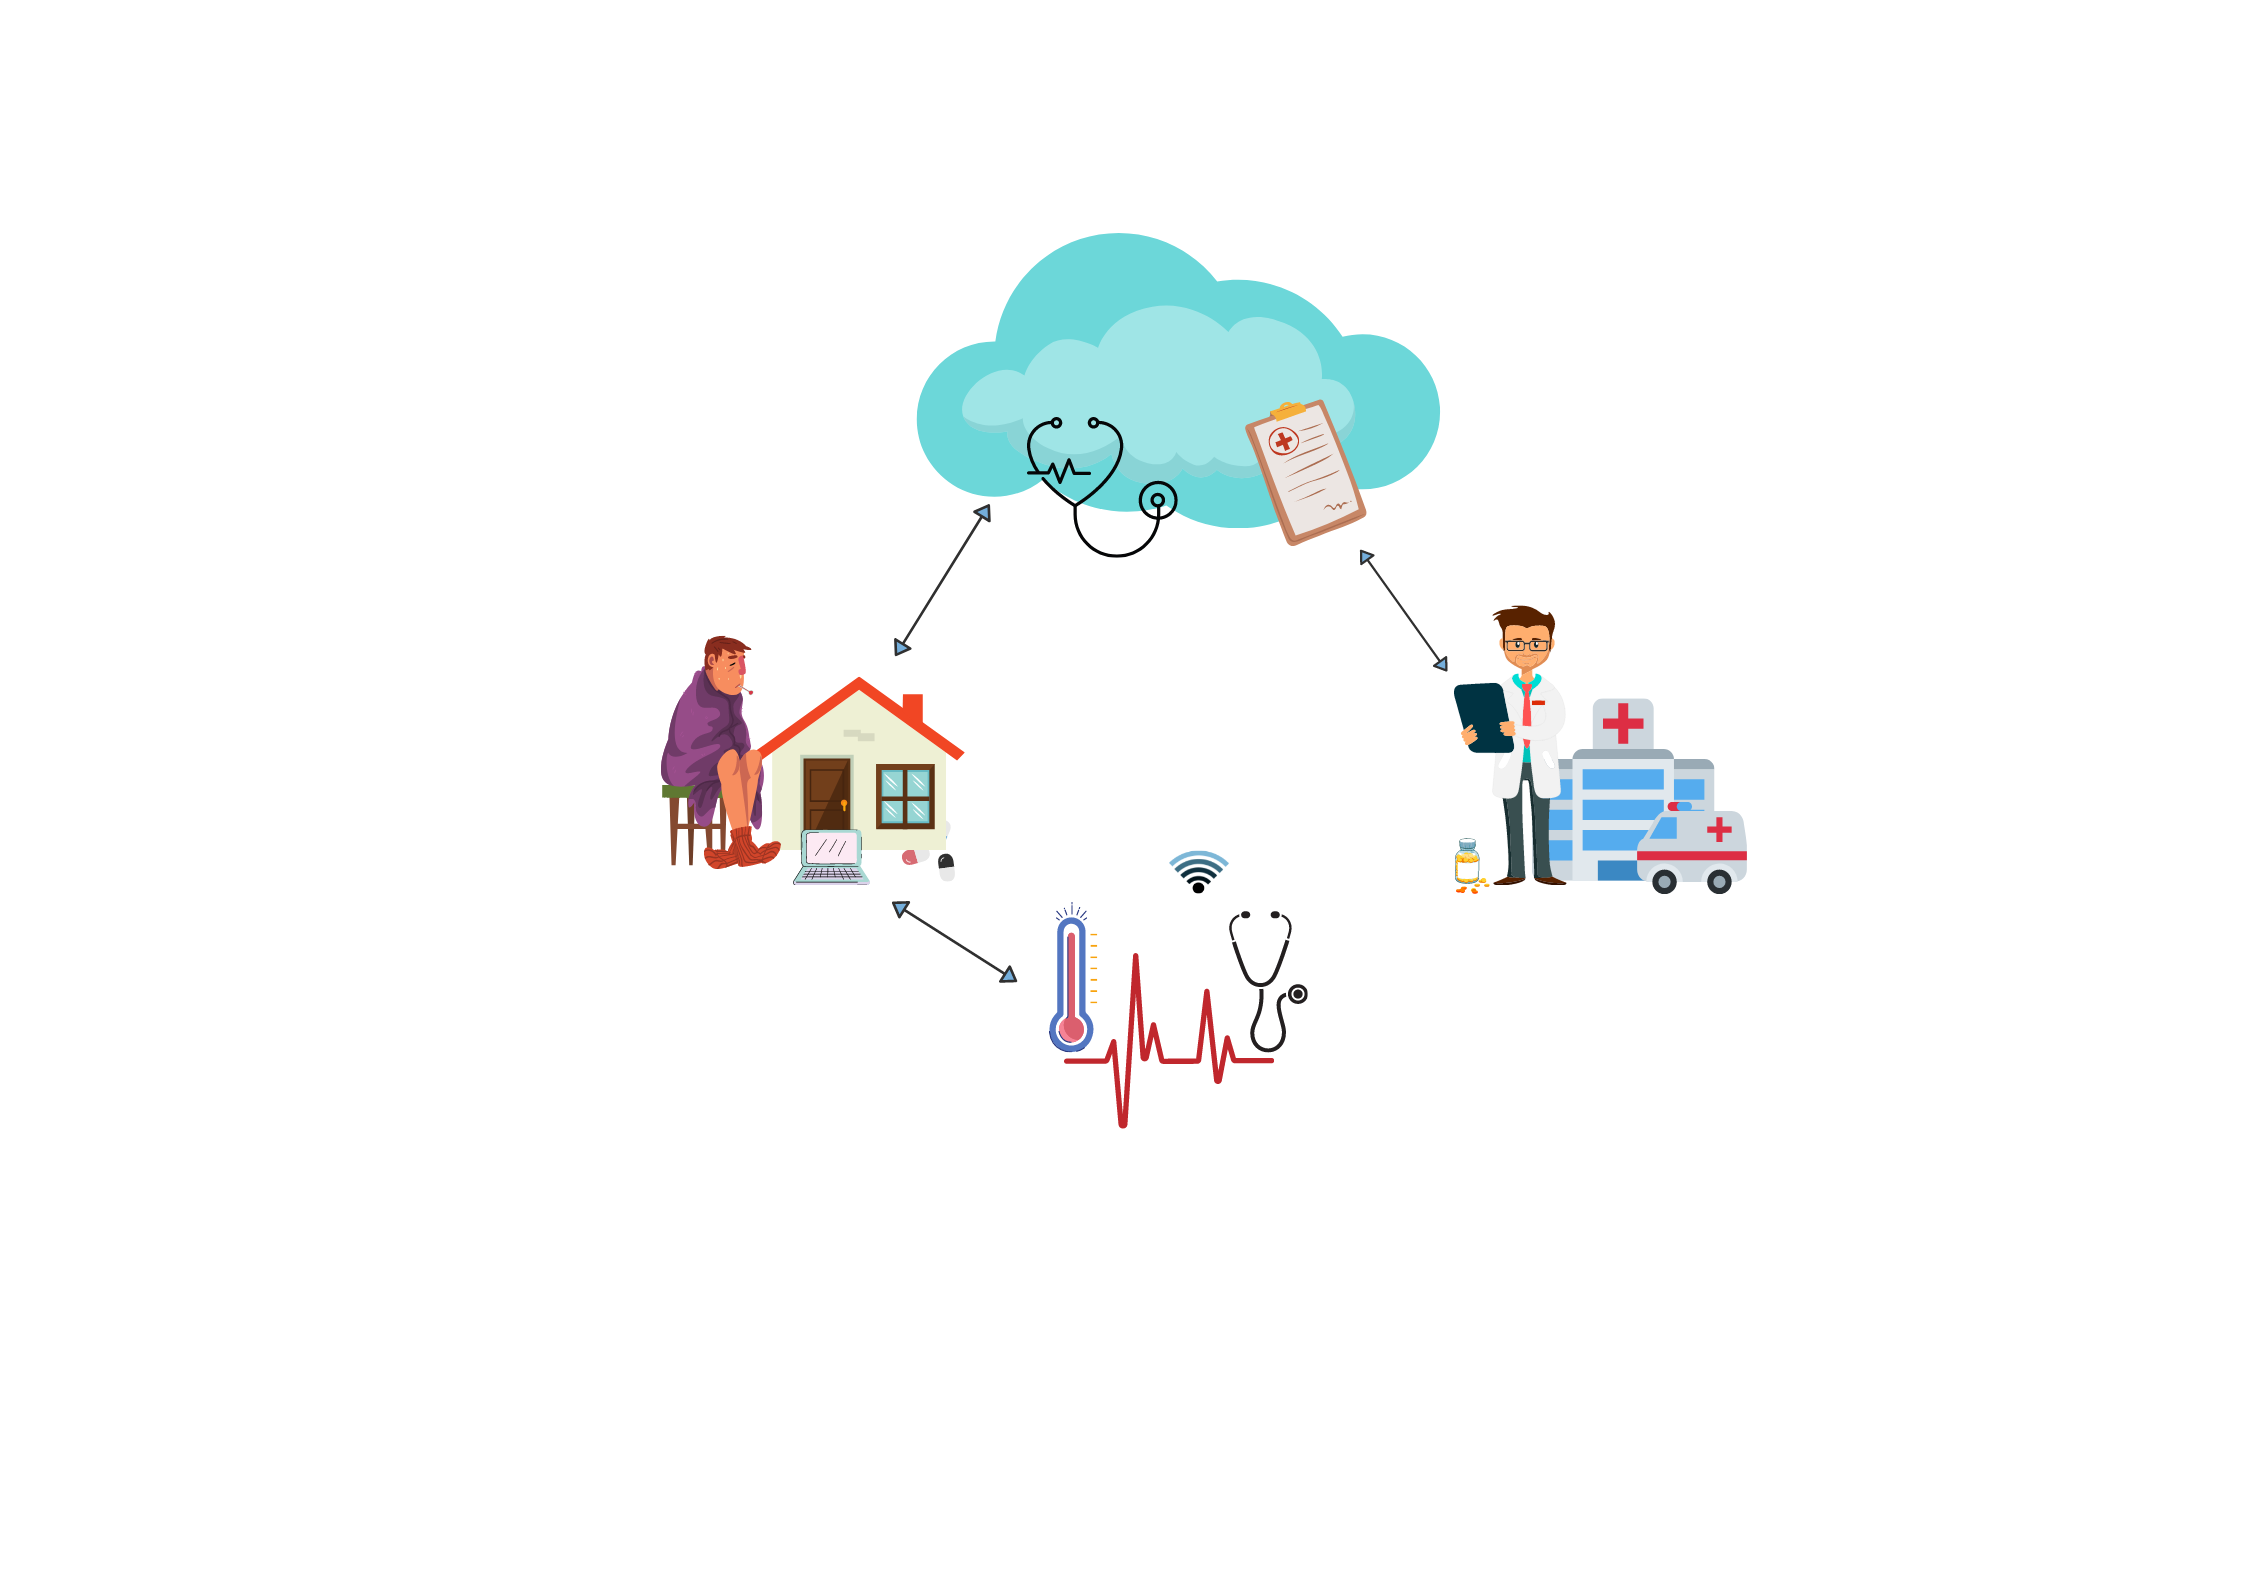
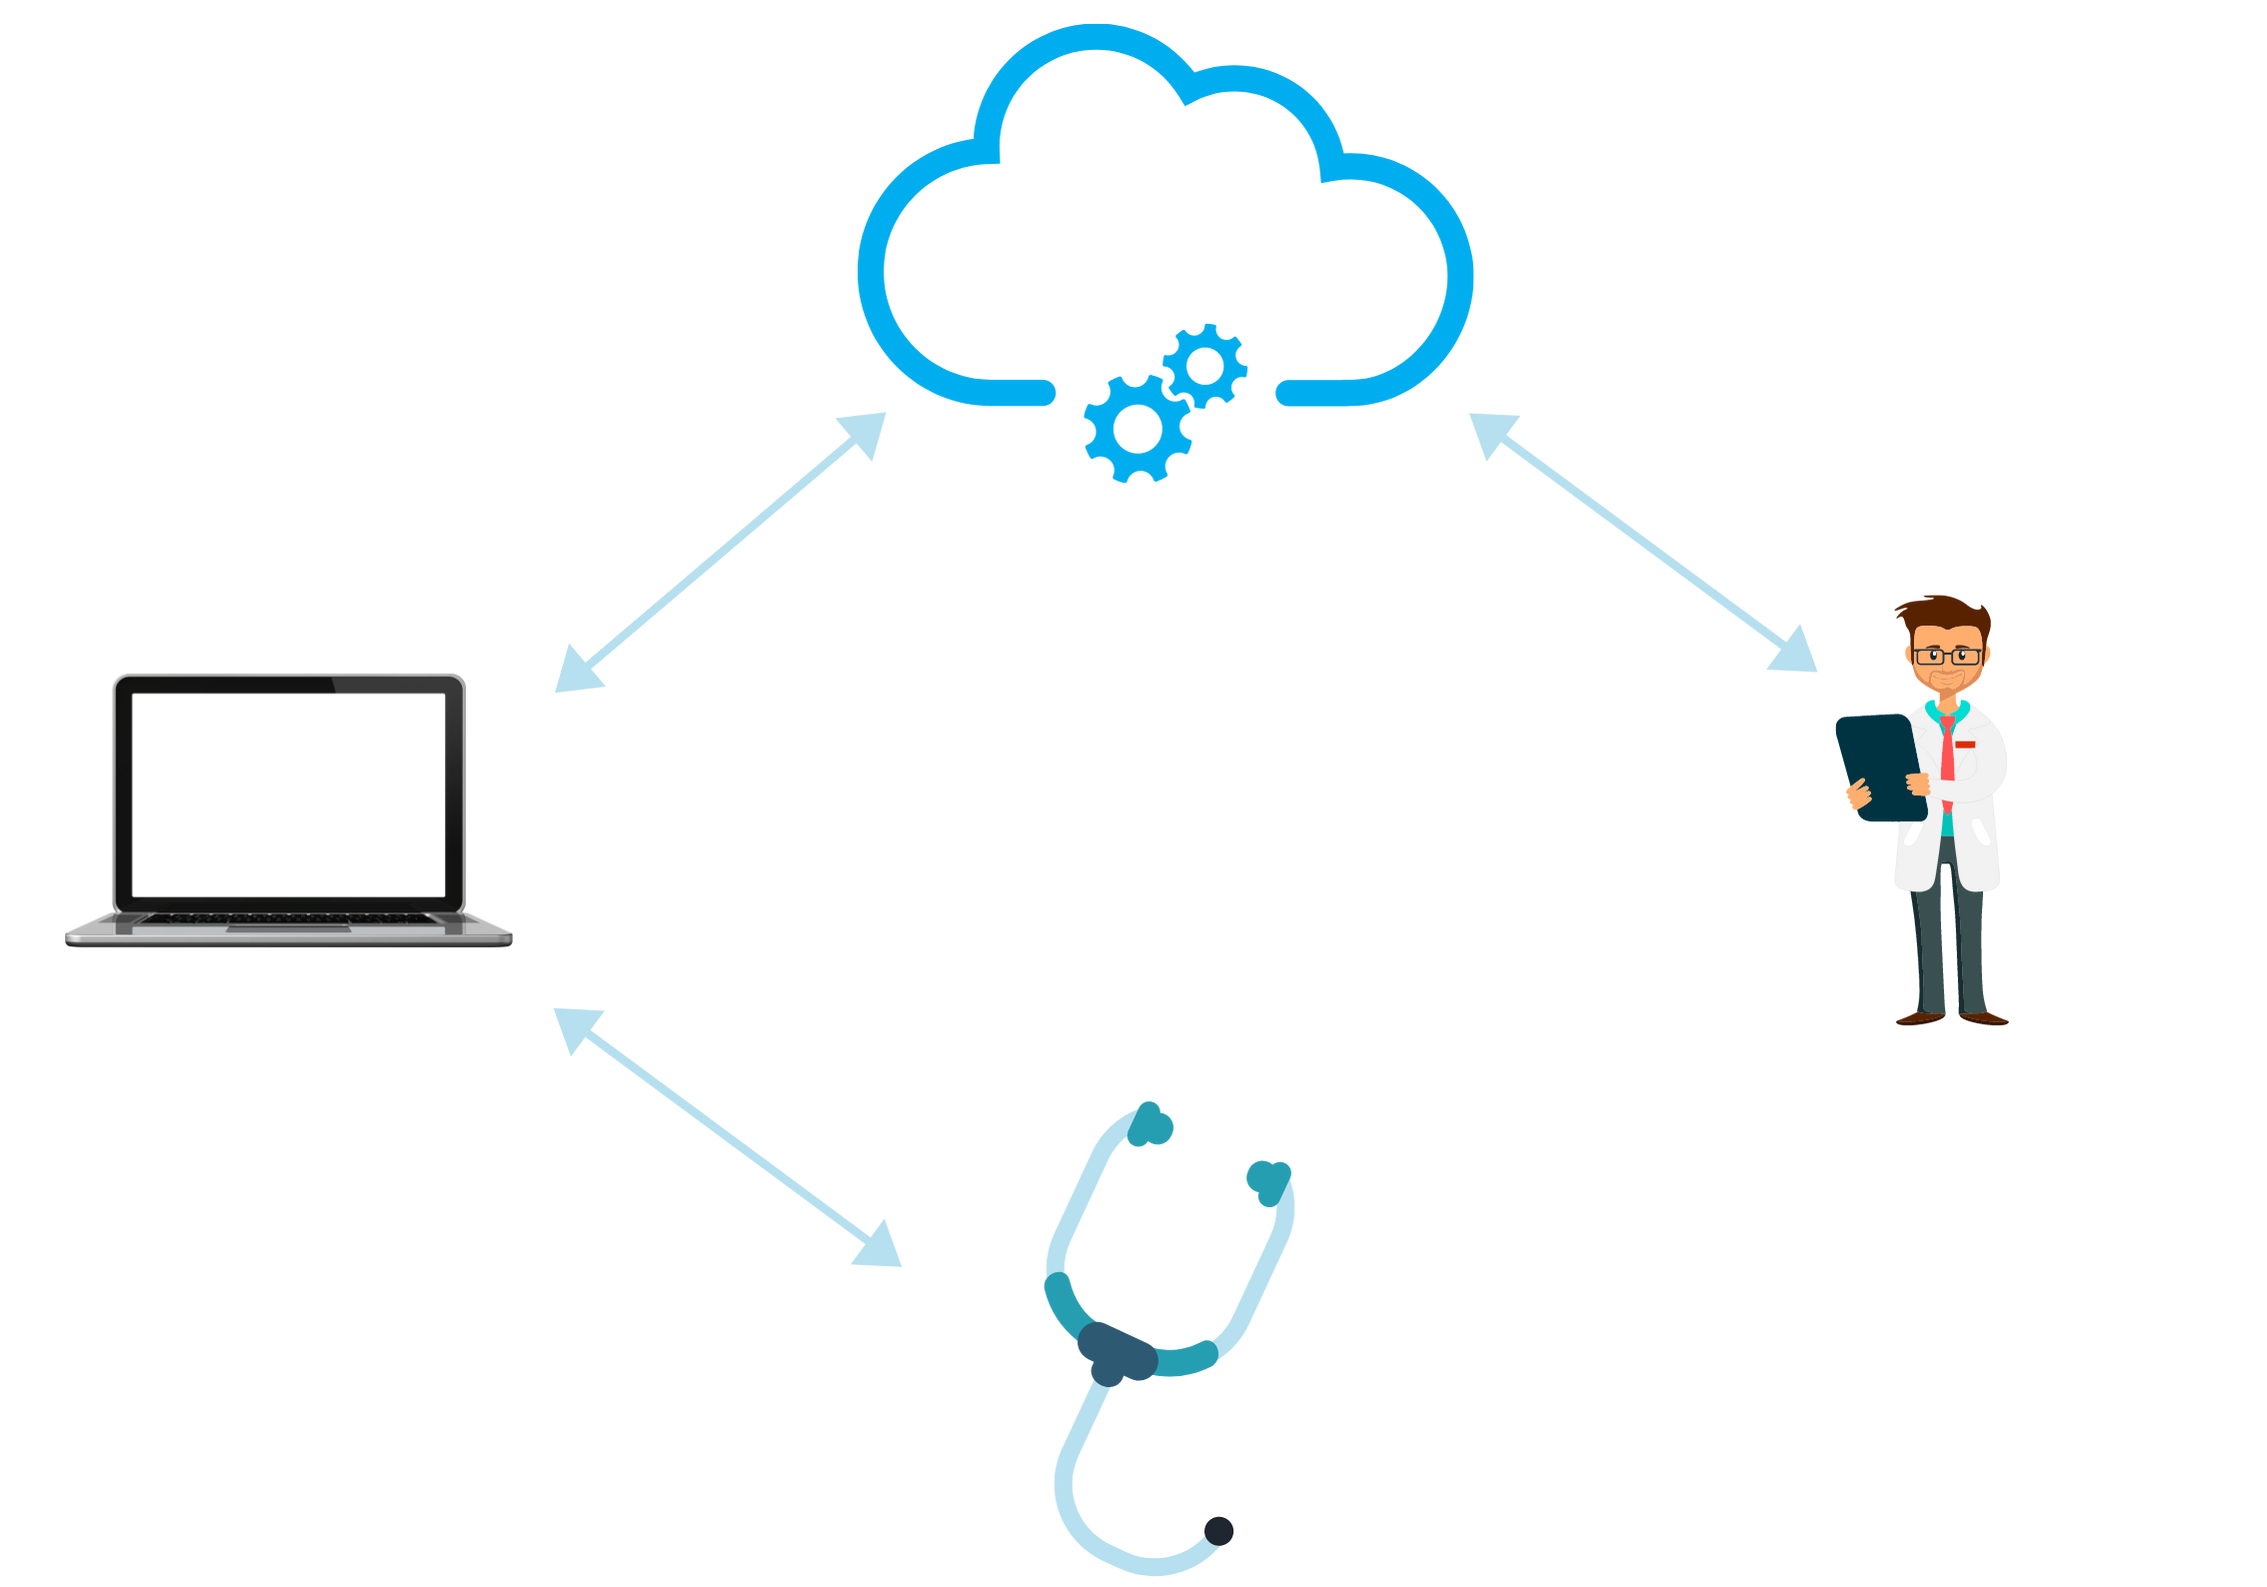
github-pages introduction (#2)
* added intro

* added bullet points, removed suggestions

* corrected a sytax error

* changed the image

* transparent background

* corrected a spelling mistake

diff --git a/docs/README.md b/docs/README.md
@@ -2,13 +2,10 @@
 layout: home
 permalink: index.html
 
-# Please update this with your repository name and title
-repository-name: eYY-3yp-remote-medical-diagnostics
-title:  
+repository-name: e17-3yp-remote-medical-diagnostics
+title: 
 ---
 
-[comment]: # "This is the standard layout for the project, but you can clean this and use your own template"
-  
 # Remote Medical Diagnostics System
 
 ---
@@ -31,18 +28,27 @@ title:
 
 ## Introduction
 
-Description of the real world problem and solution, impact
+People have to face a lot of challenges when they want to see a doctor, from having to waste time on the road full of traffic, waiting in long queues for hours to being in hospitals full of patients with contagious diseases. We aim to minimize these problems by introducing a platform where doctors and patients can meet online and a convenient diagnostics device to go with it; eliminating the need to go to a hospital for most of the common medical conditions and get diagnosed in the comfort of your own home.
 
-This is a sample image, to show how to add images to your page. To learn more options, please refer [this](https://projects.ce.pdn.ac.lk/docs/faq/how-to-add-an-image/)
+While there are some solutions already available in the market trying to solve some of these problems like E-channeling, audio and video conferencing they don't provide a good way for the doctor to monitor the patient's condition easily. We aim to design a cheap yet convenient and effective tool to make everybody's life easier by taking patient’s measurements in real-time.
 
-![Sample Image](./images/sample.png)
-
+What's available in the system:
+* Making appointments online 
+* Video Consultation.
+* Diagnostics device that reads commonly needed measurements
+    - Heartbeat sensing (clear audio with little to no background  noise)
+    - Temperature  sensing ( 5&deg;C tolerance)
+* Ability to handle the device via software and hardware
+* Real-Time  measurements.   
+* Getting valid prescriptions from the doctor	    
+* Verified authenticity of the doctor
+* Privacy and Confidentiality
+* Patient history and other analytics
+* User experiences and reviews for a doctor
 
 ## Solution Architecture
 
-![high level diagram](./images/high-level-diagram.svg)
-
-High level diagram + description
+![high level diagram](./images/high-level-diagram.png)
 
 ## Hardware and Software Designs
 
@@ -58,11 +64,18 @@ All items and costs
 
 | Item          | Quantity  | Unit Cost  | Total  |
 | ------------- |:---------:|:----------:|-------:|
-| Sample item   | 5         | 10 LKR     | 50 LKR |
+| ATmega328P | 1         | 600 LKR     | 600 LKR |
+| LM35 Temperature Sensor   | 1         | 110 LKR     | 110 LKR |
 
 ## Conclusion
 
-What was achieved, future developments, commercialization plans
+What was achieved:
+
+Future developments:
+    Getting drugs delivered to the patients house.
+
+Commercialization plans:
+    Make the device free for the first coutomers who uses the system. 
 
 ## Links
 
@@ -70,7 +83,3 @@ What was achieved, future developments, commercialization plans
 - [Project Page](https://cepdnaclk.github.io/{{ page.repository-name}}){:target="_blank"}
 - [Department of Computer Engineering](http://www.ce.pdn.ac.lk/)
 - [University of Peradeniya](https://eng.pdn.ac.lk/)
-
-
-[//]: # (Please refer this to learn more about Markdown syntax)
-[//]: # (https://github.com/adam-p/markdown-here/wiki/Markdown-Cheatsheet)
